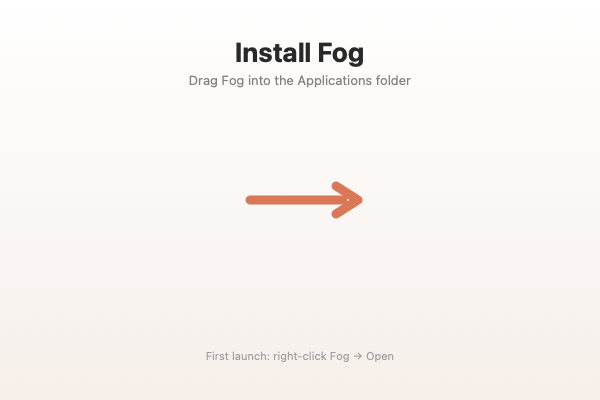
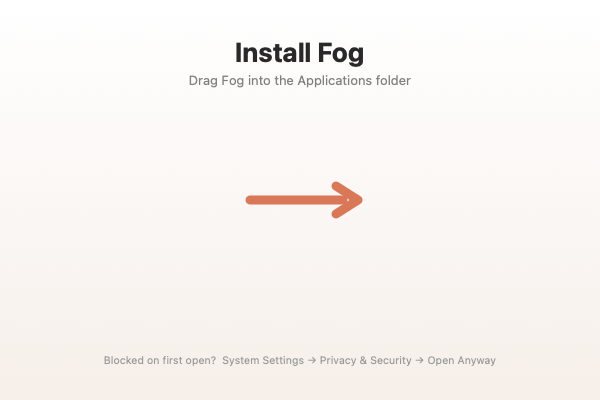
Docs: update first-launch instructions to Sequoia Open Anyway flow

Changed region(s): [[0.18, 0.87, 0.69, 0.93], [0.72, 0.87, 0.84, 0.93]]

diff --git a/scripts/make-dmg-bg.swift b/scripts/make-dmg-bg.swift
@@ -46,7 +46,7 @@ head.line(to: NSPoint(x: 336, y: y - 14))
 head.stroke()
 
 // First-launch hint baked into the background (no extra icon needed).
-draw("First launch: right-click Fog → Open", 11, .regular, NSColor(white: 0.62, alpha: 1), centerY: 44)
+draw("Blocked on first open?  System Settings → Privacy & Security → Open Anyway", 10.5, .regular, NSColor(white: 0.6, alpha: 1), centerY: 40)
 
 NSGraphicsContext.restoreGraphicsState()
 let out = URL(fileURLWithPath: "Resources/dmg-background.png")

diff --git a/docs/index.html b/docs/index.html
@@ -174,6 +174,7 @@
         <a class="btn ghost" href="https://github.com/padakan/fog">View on GitHub</a>
       </div>
       <p class="note">macOS 13+ · free · open source · the edges of this page are glowing — that's Fog ✦</p>
+      <p class="note" style="margin-top:6px">First open: <b style="color:var(--muted)">System Settings → Privacy &amp; Security → Open Anyway</b> &nbsp;(indie app, not notarized)</p>
 
       <div class="stage" id="px-stage">
         <div class="screen" id="frame">